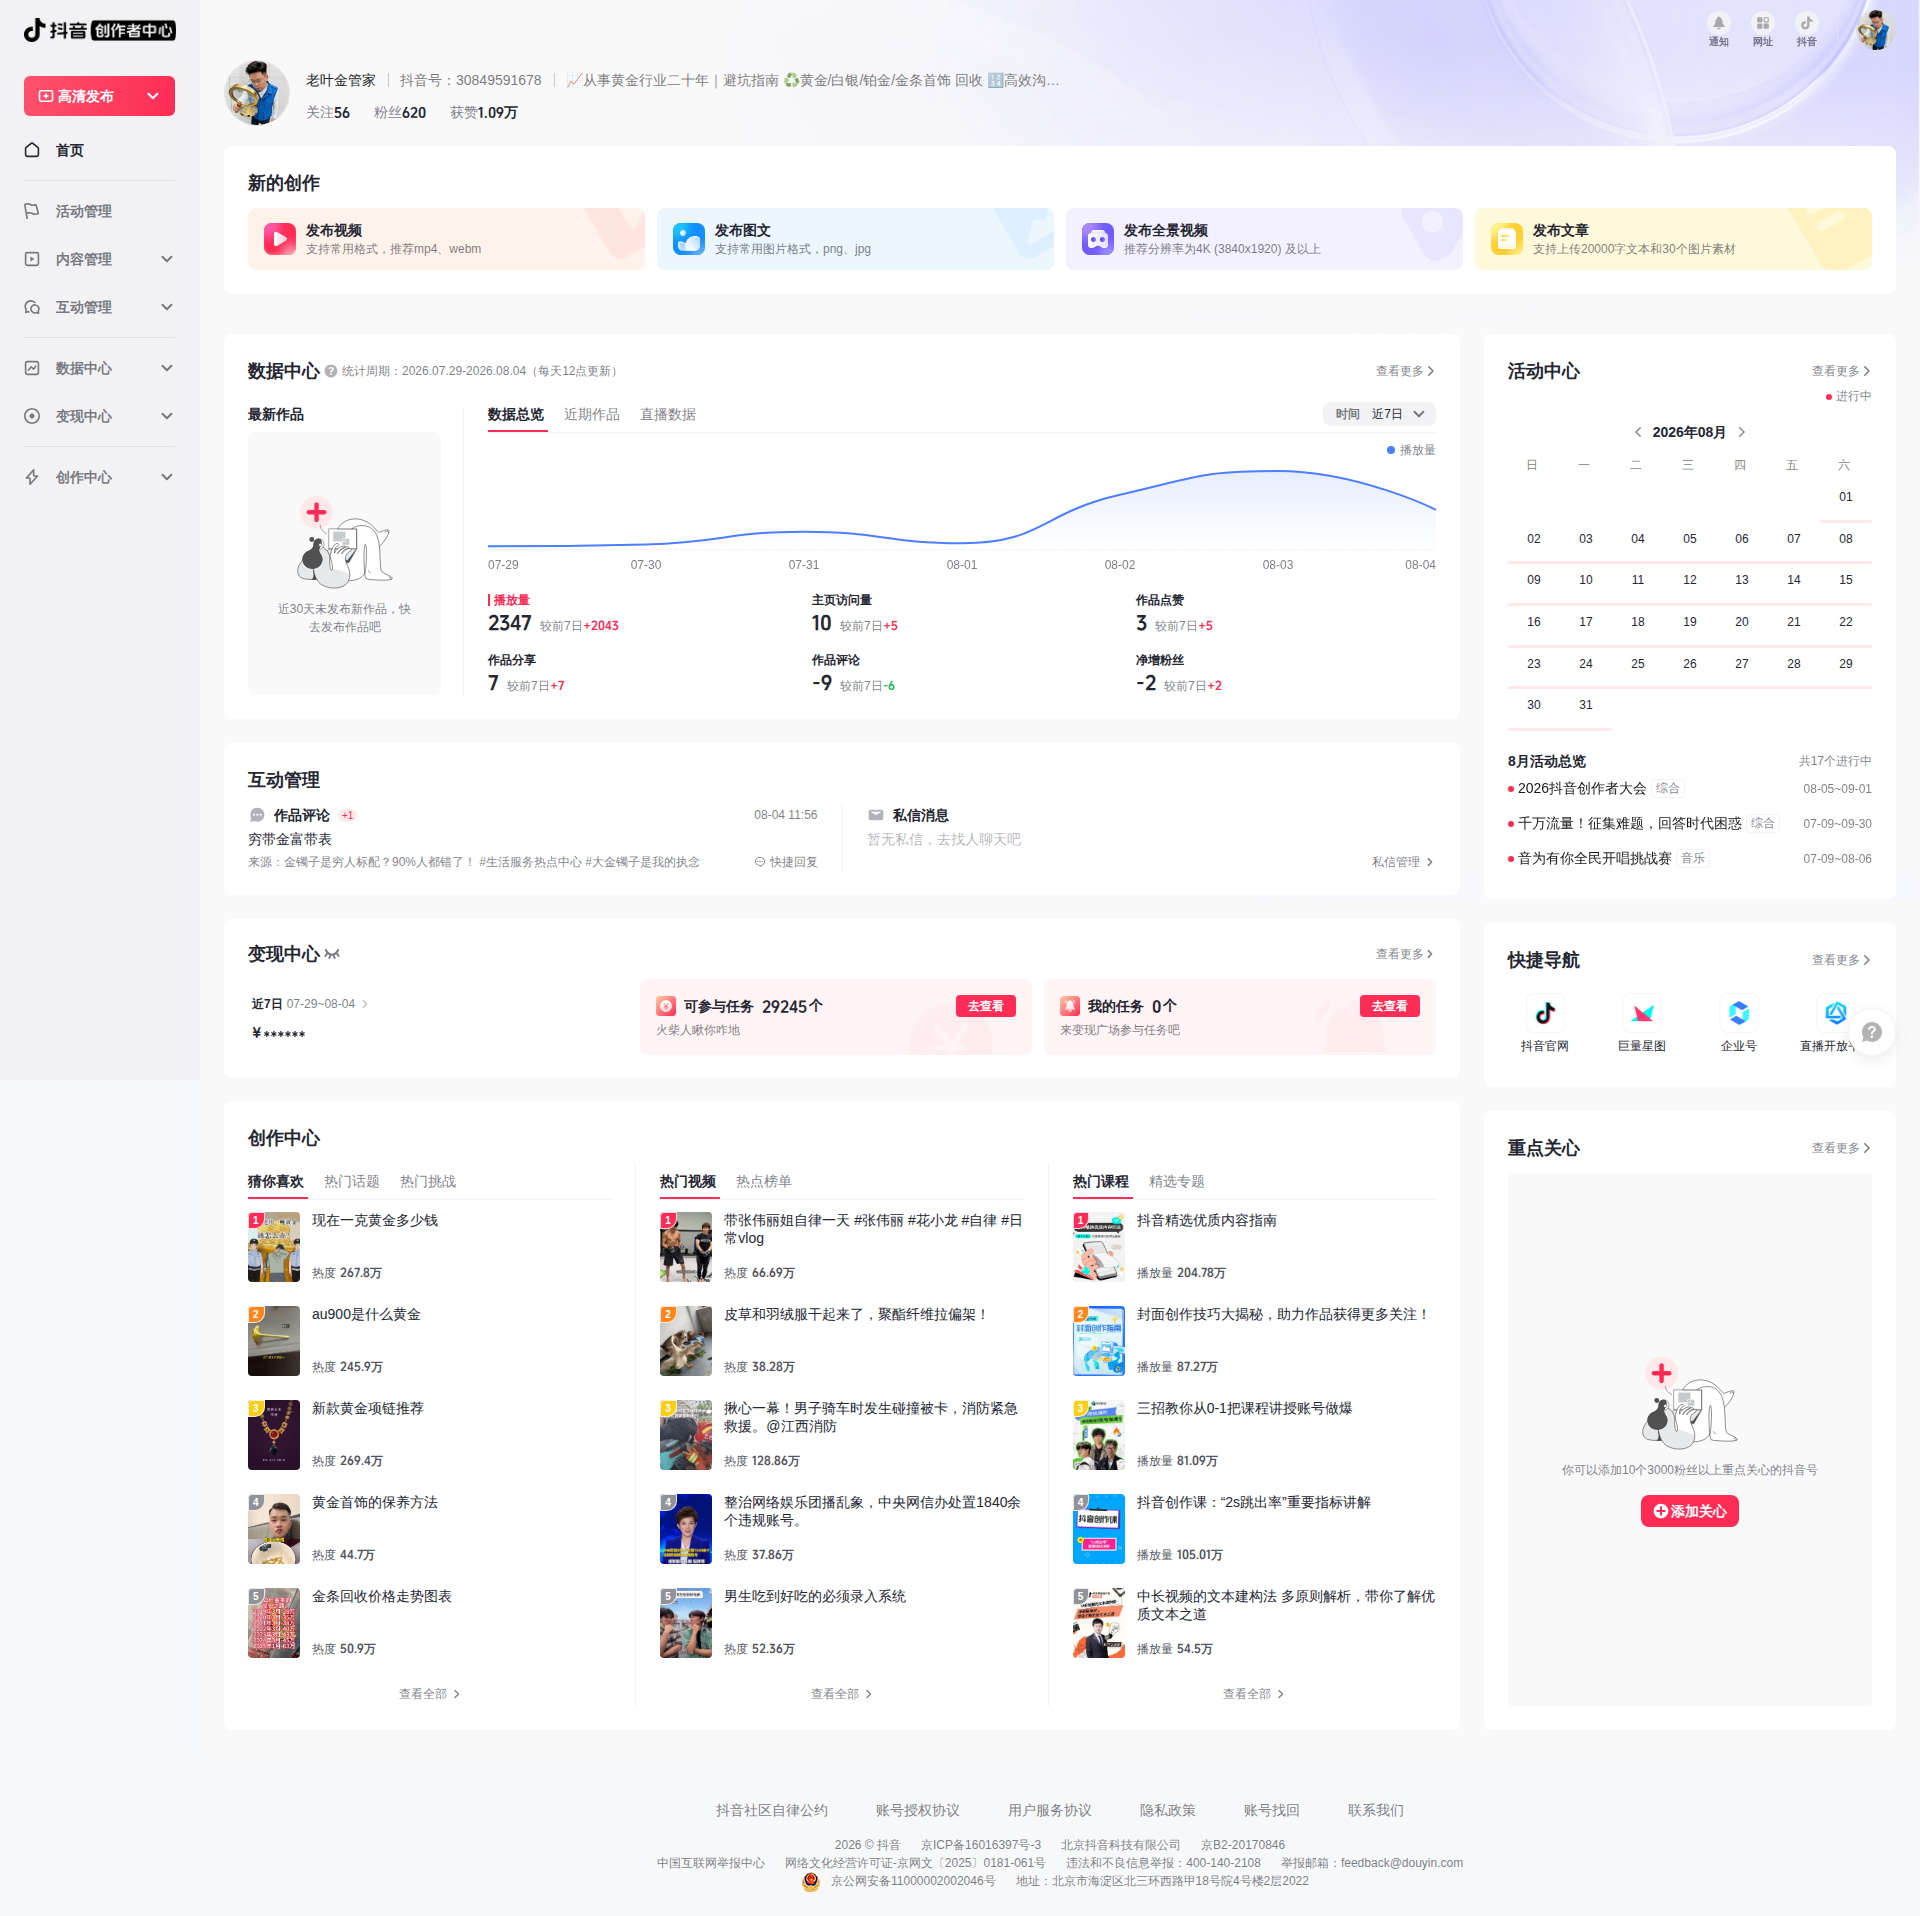
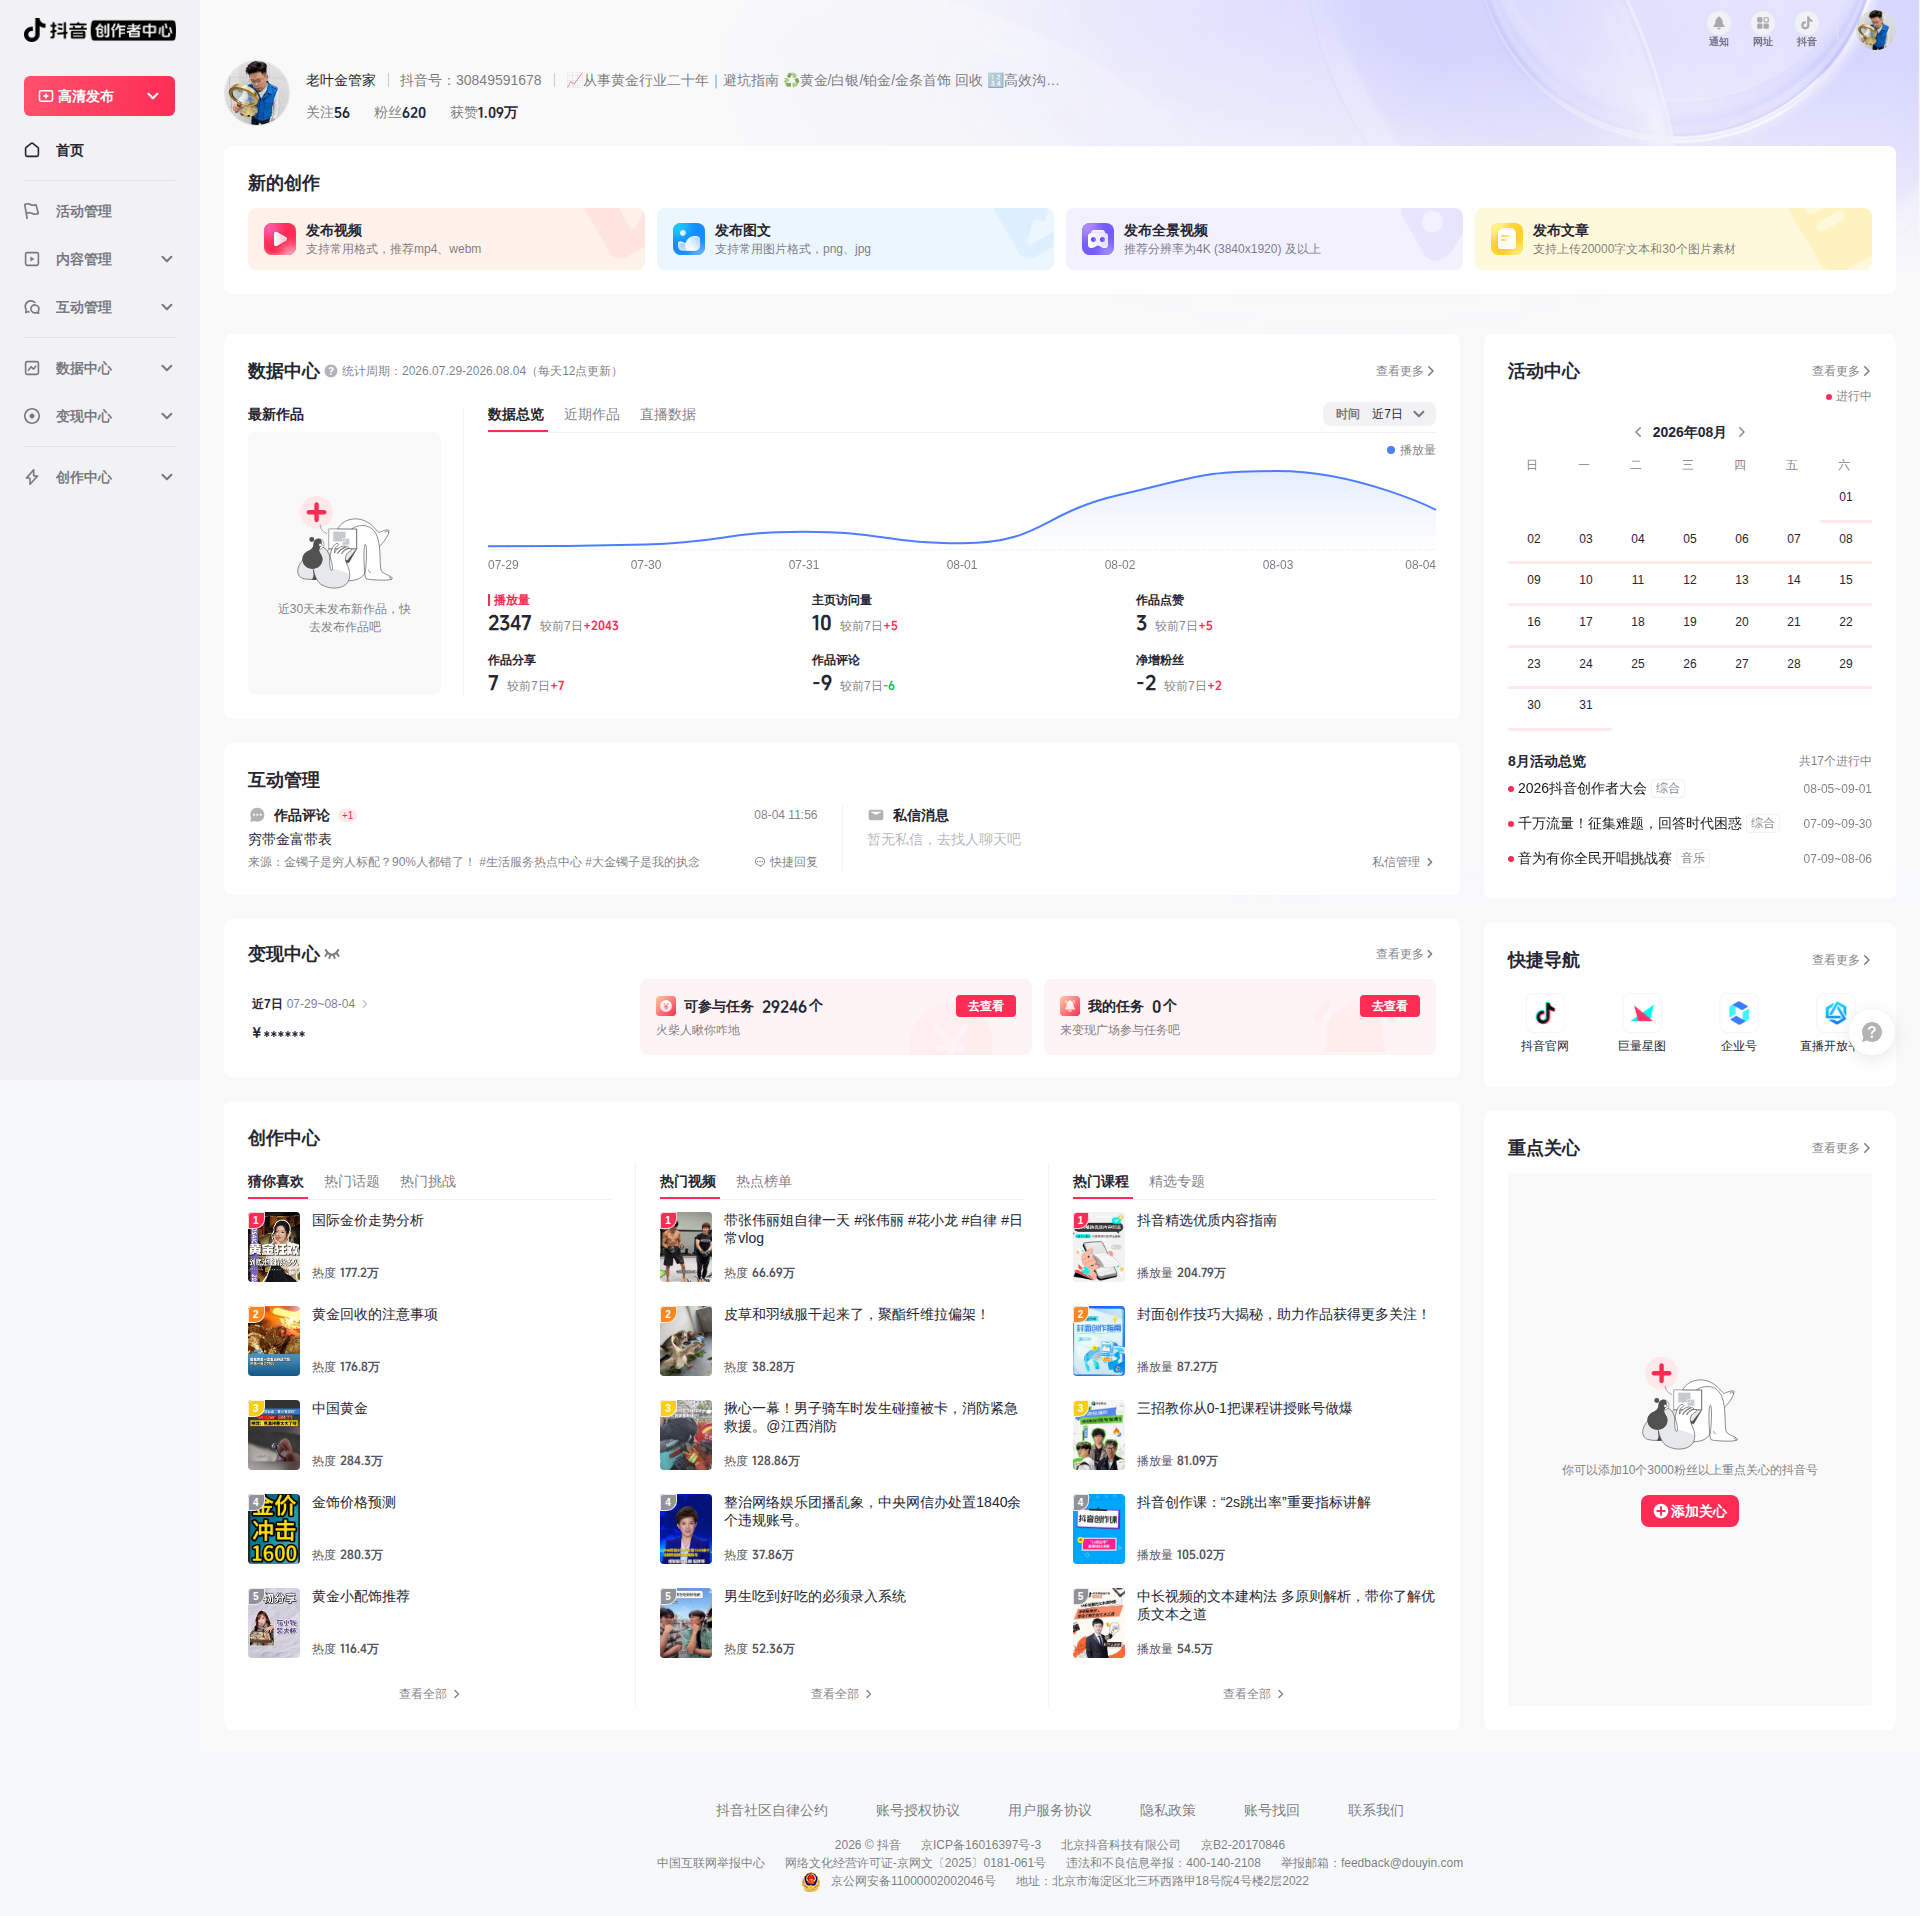
feat: 抖音数据 API 导出成功 - 热搜 Billboard + 核心指标 Overview
Coze-Commit-Type: user
Coze-User-ID: 526039378044096
Coze-Conversation-ID: 10951909

Changed region(s): [[0.125, 0.6159, 0.2188, 0.8622]]

diff --git a/scripts/douyin-export/douyin-export-api.ts b/scripts/douyin-export/douyin-export-api.ts
@@ -1,0 +1,209 @@
+/**
+ * 抖音创作者中心数据导出脚本 - API 版本
+ * 直接从 API 接口获取数据，不依赖页面 UI
+ */
+
+import { chromium } from 'playwright';
+import * as path from 'path';
+import * as fs from 'fs';
+
+const CONFIG = {
+  homeUrl: 'https://creator.douyin.com/creator-micro/home',
+  downloadDir: path.join(process.cwd(), 'scripts/douyin-export/downloads'),
+  cookieFile: path.join(process.cwd(), 'scripts/douyin-export/cookies/account1.json'),
+};
+
+// 确保下载目录存在
+if (!fs.existsSync(CONFIG.downloadDir)) {
+  fs.mkdirSync(CONFIG.downloadDir, { recursive: true });
+}
+
+// 读取 Cookie
+function loadCookies(): any[] {
+  if (!fs.existsSync(CONFIG.cookieFile)) {
+    throw new Error(`Cookie 文件不存在：${CONFIG.cookieFile}`);
+  }
+  const content = fs.readFileSync(CONFIG.cookieFile, 'utf-8');
+  return JSON.parse(content);
+}
+
+// 保存数据为 CSV
+function saveToCSV(filename: string, headers: string[], rows: any[][]): string {
+  const csvContent = [
+    headers.join(','),
+    ...rows.map(row => row.map(cell => `"${String(cell).replace(/"/g, '""')}"`).join(','))
+  ].join('\n');
+  
+  const filePath = path.join(CONFIG.downloadDir, filename);
+  fs.writeFileSync(filePath, csvContent, 'utf-8');
+  return filePath;
+}
+
+async function main() {
+  console.log('抖音数据导出脚本 - API 版本');
+  console.log('==================================================');
+  
+  const browser = await chromium.launch({
+    headless: true,
+    args: ['--no-sandbox', '--disable-setuid-sandbox']
+  });
+  
+  const context = await browser.newContext({
+    userAgent: 'Mozilla/5.0 (Macintosh; Intel Mac OS X 10_15_7) AppleWebKit/537.36 (KHTML, like Gecko) Chrome/120.0.0.0 Safari/537.36',
+    viewport: { width: 1920, height: 1080 },
+    locale: 'zh-CN',
+    timezoneId: 'Asia/Shanghai'
+  });
+  
+  // 加载并设置 Cookie
+  const cookies = loadCookies();
+  console.log(`✅ 加载了 ${cookies.length} 个 Cookie`);
+  
+  await context.addCookies(cookies.map(c => {
+    const sameSite = c.sameSite;
+    let validSameSite: 'Strict' | 'Lax' | 'None' | undefined = undefined;
+    if (sameSite === 'Strict' || sameSite === 'Lax' || sameSite === 'None') {
+      validSameSite = sameSite;
+    } else if (sameSite === 'strict' || sameSite === 'lax' || sameSite === 'none') {
+      validSameSite = sameSite.charAt(0).toUpperCase() + sameSite.slice(1) as any;
+    }
+    
+    return {
+      name: c.name,
+      value: c.value,
+      domain: c.domain || '.douyin.com',
+      path: c.path || '/',
+      secure: c.secure || false,
+      httpOnly: c.httpOnly || false,
+      sameSite: validSameSite,
+    };
+  }));
+  console.log('✅ Cookie 已设置');
+  
+  const page = await context.newPage();
+  
+  // 拦截 API 响应
+  const apiData: any = {
+    billboard: null,
+    overview: null,
+  };
+  
+  page.on('response', async (response) => {
+    const url = response.url();
+    
+    // 捕获所有创作者数据相关的 API
+    if (url.includes('/aweme/v1/creator/data/') || url.includes('/aweme/janus/creator/data/')) {
+      try {
+        const json = await response.json();
+        console.log(`📊 捕获 API: ${url.split('?')[0].split('/').slice(-3).join('/')}`);
+        
+        if (url.includes('/overview/billboard')) {
+          apiData.billboard = json;
+        } else if (url.includes('/overview')) {
+          apiData.overview = json;
+        }
+      } catch (e) {}
+    }
+  });
+  
+  // 访问首页（触发 API 请求）
+  console.log('\n 访问首页...');
+  await page.goto(CONFIG.homeUrl, {
+    waitUntil: 'networkidle',
+    timeout: 30000,
+  });
+  
+  await new Promise(resolve => setTimeout(resolve, 5000));
+  console.log(' 首页加载完成');
+  
+  // 截图首页
+  await page.screenshot({ path: path.join(CONFIG.downloadDir, '01-home.png'), fullPage: true });
+  
+  // 检查捕获的数据
+  console.log('\n📊 数据捕获结果：');
+  console.log(`  billboard: ${apiData.billboard ? '✅ 已捕获' : '❌ 未捕获'}`);
+  console.log(`  overview: ${apiData.overview ? '✅ 已捕获' : '❌ 未捕获'}`);
+  
+  // 导出 billboard 数据
+  if (apiData.billboard) {
+    console.log('\n📝 导出 billboard 数据...');
+    console.log('  数据结构:', JSON.stringify(apiData.billboard, null, 2).substring(0, 800));
+    
+    const data = apiData.billboard;
+    const rows: any[][] = [];
+    
+    // 解析 billboard 数据结构
+    if (data.billboard_data && data.billboard_data.element_list) {
+      const elements = data.billboard_data.element_list;
+      for (const element of elements) {
+        const base = element.base_data || {};
+        rows.push([
+          base.title || '',
+          base.author || '',
+          (base.tags || []).join(', '),
+          base.billboard_id || '',
+        ]);
+      }
+    }
+    
+    if (rows.length > 0) {
+      const filePath = saveToCSV('billboard_data.csv', ['标题', '作者', '标签', 'ID'], rows);
+      console.log(`✅ 已导出：${filePath}`);
+      console.log(`  共 ${rows.length} 条热搜`);
+    } else {
+      console.log('  ⚠ 数据为空，结构可能不匹配');
+    }
+  }
+  
+  // 导出 overview 数据
+  if (apiData.overview) {
+    console.log('\n📝 导出 overview 数据...');
+    
+    const data = apiData.overview;
+    const rows: any[][] = [];
+    
+    // 解析 overview 数据结构 - 按指标类别遍历
+    if (data.data) {
+      for (const [category, categoryData] of Object.entries(data.data)) {
+        if (typeof categoryData === 'object' && categoryData !== null) {
+          const cat = categoryData as any;
+          const currentCount = cat.current_count || cat.value || '';
+          const lastPeriodIncr = cat.last_period_incr || cat.compare || '';
+          
+          rows.push([
+            category,
+            currentCount,
+            lastPeriodIncr,
+          ]);
+        }
+      }
+    }
+    
+    if (rows.length > 0) {
+      const filePath = saveToCSV('overview_data.csv', ['指标类别', '当前值', '较上期增长'], rows);
+      console.log(`✅ 已导出：${filePath}`);
+      console.log(`  共 ${rows.length} 个指标`);
+    } else {
+      console.log('  ⚠ 数据为空，结构可能不匹配');
+    }
+  }
+  
+  // 如果 API 数据为空，尝试从页面提取
+  if (!apiData.billboard && !apiData.overview) {
+    console.log('\n  API 数据未捕获，尝试从页面提取...');
+    
+    // 从首页提取数据中心卡片数据
+    const dataCards = await page.locator('[class*="data-card"], [class*="metric"]').allTextContents();
+    console.log('  页面数据卡片:', dataCards);
+  }
+  
+  console.log('\n✅ 导出完成！');
+  console.log(`📁 文件保存在：${CONFIG.downloadDir}`);
+  
+  await browser.close();
+}
+
+main().catch(err => {
+  console.error('❌ 错误:', err.message);
+  process.exit(1);
+});

diff --git a/scripts/douyin-export/douyin-export.ts b/scripts/douyin-export/douyin-export.ts
@@ -85,29 +85,19 @@ async function main() {
   // 截图首页
   await page.screenshot({ path: path.join(CONFIG.downloadDir, '01-home.png'), fullPage: true });
   
-  // 点击左侧「数据中心」菜单
-  console.log('\n 点击「数据中心」菜单...');
-  
-  // 使用更精确的选择器
-  const dataCenterMenu = page.locator('nav a:has-text("数据中心"), nav div:has-text("数据中心"), .sidebar a:has-text("数据中心")').first();
-  
-  if (await dataCenterMenu.count() > 0) {
-    await dataCenterMenu.click();
-    console.log('  已点击数据中心');
-  } else {
-    console.log('  未找到菜单，尝试直接访问数据中心 URL');
-    await page.goto('https://creator.douyin.com/creator-micro/data/overview', {
-      waitUntil: 'networkidle',
-      timeout: 30000,
-    });
-  }
+  // 直接访问数据概览页面（避免菜单导航跳转到错误页面）
+  console.log('\n 访问数据概览页面...');
+  await page.goto('https://creator.douyin.com/creator-micro/data/overview', {
+    waitUntil: 'networkidle',
+    timeout: 30000,
+  });
   
   // 等待数据中心页面加载
   console.log('  等待数据中心页面加载...');
   await new Promise(resolve => setTimeout(resolve, 8000));
   
   const currentUrl = page.url();
-  console.log(`当前 URL: ${currentUrl}`);
+  console.log(`  当前 URL: ${currentUrl}`);
   
   // 截图数据中心页面
   await page.screenshot({ path: path.join(CONFIG.downloadDir, '02-datacenter.png'), fullPage: true });
